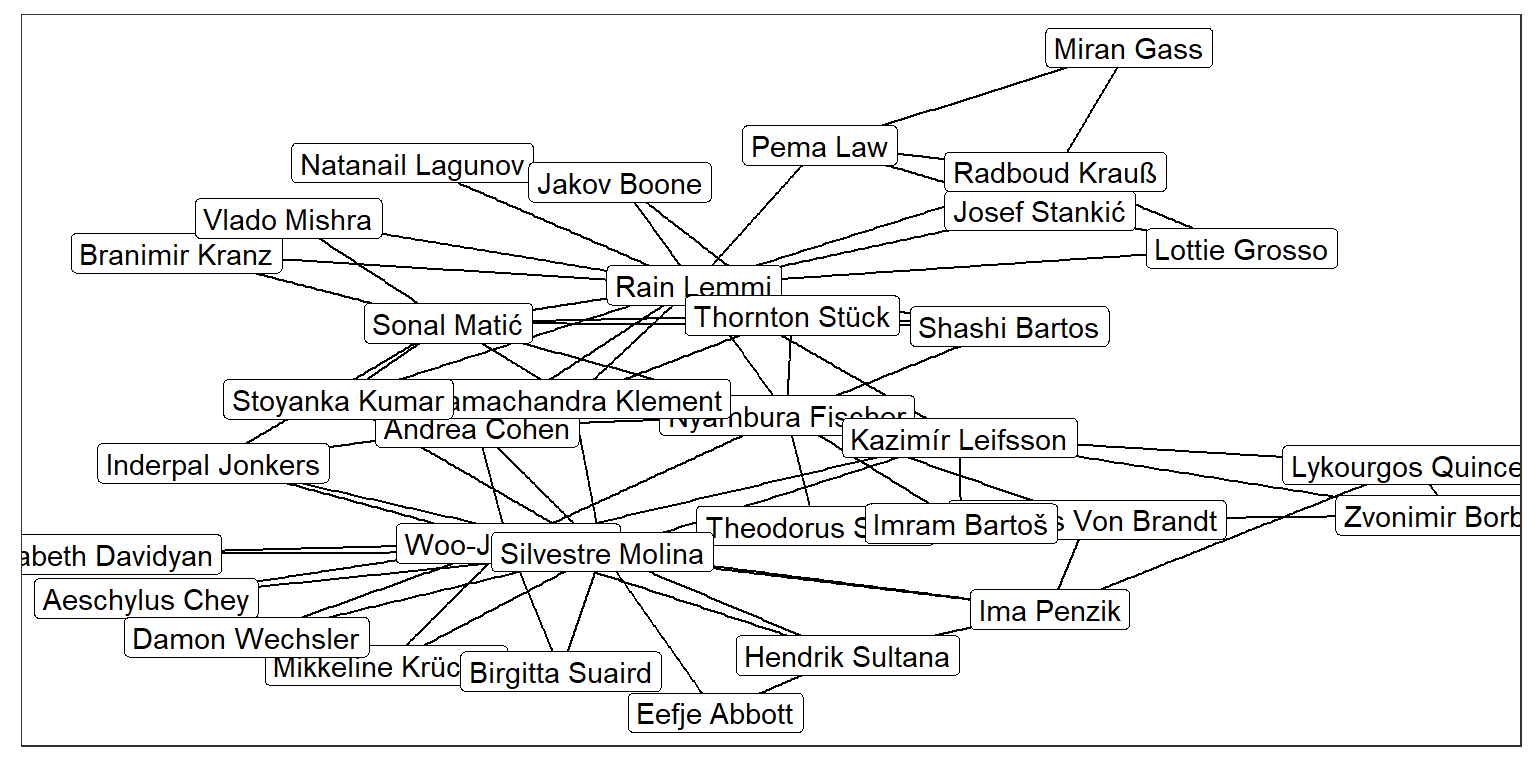
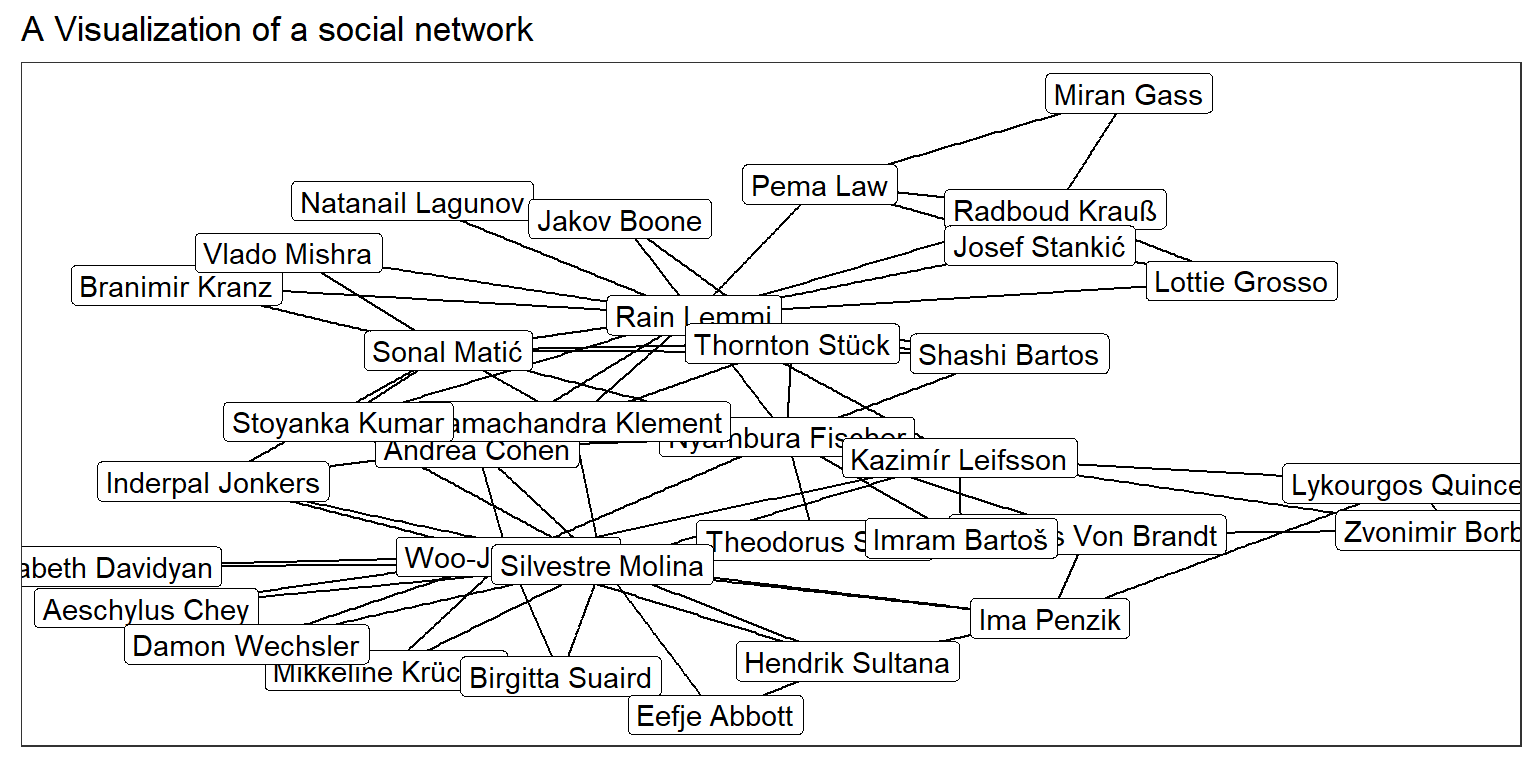
Added Golden color to top 4. fixes #15.

Changed region(s): [[0.0, 0.1562, 1.0, 0.9688], [0.6562, 0.0312, 0.7812, 0.1562], [0.0, 0.0, 0.3438, 0.0625]]

diff --git a/Report_2/README.html b/Report_2/README.html
@@ -136,7 +136,10 @@ pre > code.sourceCode > span > a:first-child::before { text-decoration: underlin
 <span id="cb1-16"><a href="#cb1-16" aria-hidden="true" tabindex="-1"></a></span>
 <span id="cb1-17"><a href="#cb1-17" aria-hidden="true" tabindex="-1"></a><span class="fu">ggraph</span>(twiddle_data, <span class="at">layout =</span> <span class="st">"igraph"</span>, <span class="at">algorithm =</span> <span class="st">"kk"</span>) <span class="sc">+</span></span>
 <span id="cb1-18"><a href="#cb1-18" aria-hidden="true" tabindex="-1"></a>  <span class="fu">geom_edge_link</span>() <span class="sc">+</span></span>
-<span id="cb1-19"><a href="#cb1-19" aria-hidden="true" tabindex="-1"></a>  <span class="fu">geom_node_label</span>(<span class="at">mapping =</span> <span class="fu">aes</span>(<span class="at">label =</span> name))</span></code><button title="Copy to Clipboard" class="code-copy-button"><i class="bi"></i></button></pre></div>
+<span id="cb1-19"><a href="#cb1-19" aria-hidden="true" tabindex="-1"></a>  <span class="fu">geom_node_label</span>(<span class="at">mapping =</span> <span class="fu">aes</span>(<span class="at">label =</span> name)) <span class="sc">+</span></span>
+<span id="cb1-20"><a href="#cb1-20" aria-hidden="true" tabindex="-1"></a>  <span class="fu">labs</span>(</span>
+<span id="cb1-21"><a href="#cb1-21" aria-hidden="true" tabindex="-1"></a>    <span class="at">title =</span> <span class="st">"A Visualization of a social network"</span></span>
+<span id="cb1-22"><a href="#cb1-22" aria-hidden="true" tabindex="-1"></a>  )</span></code><button title="Copy to Clipboard" class="code-copy-button"><i class="bi"></i></button></pre></div>
 <div class="cell-output-display">
 <p><img src="README_files/figure-html/unnamed-chunk-1-1.png" class="img-fluid" width="768"></p>
 </div>
@@ -162,6 +165,68 @@ pre > code.sourceCode > span > a:first-child::before { text-decoration: underlin
 <p><img src="README_files/figure-html/unnamed-chunk-2-1.png" class="img-fluid" width="768"></p>
 </div>
 </div>
+</section>
+<section id="task-3-highlighting-top-4-social-people-with-most-interactions." class="level2">
+<h2 class="anchored" data-anchor-id="task-3-highlighting-top-4-social-people-with-most-interactions.">Task 3: Highlighting top 4 social People with most interactions.</h2>
+<div class="cell">
+<div class="sourceCode cell-code" id="cb3"><pre class="sourceCode r code-with-copy"><code class="sourceCode r"><span id="cb3-1"><a href="#cb3-1" aria-hidden="true" tabindex="-1"></a><span class="fu">library</span>(stringr)</span>
+<span id="cb3-2"><a href="#cb3-2" aria-hidden="true" tabindex="-1"></a><span class="fu">library</span>(ggtext)</span></code><button title="Copy to Clipboard" class="code-copy-button"><i class="bi"></i></button></pre></div>
+<div class="cell-output cell-output-stderr">
+<pre><code>Warning: Paket 'ggtext' wurde unter R Version 4.3.3 erstellt</code></pre>
+</div>
+<div class="sourceCode cell-code" id="cb5"><pre class="sourceCode r code-with-copy"><code class="sourceCode r"><span id="cb5-1"><a href="#cb5-1" aria-hidden="true" tabindex="-1"></a><span class="co"># Generating two dfs having count of id for edges</span></span>
+<span id="cb5-2"><a href="#cb5-2" aria-hidden="true" tabindex="-1"></a>df_edges_count_to <span class="ot">&lt;-</span> df_edges <span class="sc">%&gt;%</span> </span>
+<span id="cb5-3"><a href="#cb5-3" aria-hidden="true" tabindex="-1"></a>  <span class="fu">count</span>(to) <span class="sc">%&gt;%</span> </span>
+<span id="cb5-4"><a href="#cb5-4" aria-hidden="true" tabindex="-1"></a>  <span class="fu">rename</span>(<span class="at">count_to =</span> n)</span>
+<span id="cb5-5"><a href="#cb5-5" aria-hidden="true" tabindex="-1"></a></span>
+<span id="cb5-6"><a href="#cb5-6" aria-hidden="true" tabindex="-1"></a>df_edges_count_from <span class="ot">&lt;-</span> df_edges <span class="sc">%&gt;%</span> </span>
+<span id="cb5-7"><a href="#cb5-7" aria-hidden="true" tabindex="-1"></a>  <span class="fu">count</span>(from) <span class="sc">%&gt;%</span> </span>
+<span id="cb5-8"><a href="#cb5-8" aria-hidden="true" tabindex="-1"></a>  <span class="fu">rename</span>(<span class="at">count_from =</span> n)</span>
+<span id="cb5-9"><a href="#cb5-9" aria-hidden="true" tabindex="-1"></a></span>
+<span id="cb5-10"><a href="#cb5-10" aria-hidden="true" tabindex="-1"></a>df_nodes_firstname_counts <span class="ot">&lt;-</span> df_nodes_firstname <span class="sc">%&gt;%</span> </span>
+<span id="cb5-11"><a href="#cb5-11" aria-hidden="true" tabindex="-1"></a>  <span class="fu">left_join</span>(df_edges_count_to, <span class="fu">join_by</span>(id <span class="sc">==</span> to)) <span class="sc">%&gt;%</span> </span>
+<span id="cb5-12"><a href="#cb5-12" aria-hidden="true" tabindex="-1"></a>  <span class="fu">left_join</span>(df_edges_count_from, <span class="fu">join_by</span>(id <span class="sc">==</span> from)) <span class="sc">%&gt;%</span> </span>
+<span id="cb5-13"><a href="#cb5-13" aria-hidden="true" tabindex="-1"></a>  <span class="fu">rowwise</span>() <span class="sc">%&gt;%</span> </span>
+<span id="cb5-14"><a href="#cb5-14" aria-hidden="true" tabindex="-1"></a>  <span class="fu">mutate</span>(<span class="at">count_sum =</span> <span class="fu">sum</span>(count_to, count_from, <span class="at">na.rm =</span> <span class="cn">TRUE</span>)) <span class="sc">%&gt;%</span> </span>
+<span id="cb5-15"><a href="#cb5-15" aria-hidden="true" tabindex="-1"></a>  <span class="fu">arrange</span>(<span class="fu">desc</span>(count_sum)) <span class="sc">%&gt;%</span> </span>
+<span id="cb5-16"><a href="#cb5-16" aria-hidden="true" tabindex="-1"></a>  <span class="fu">group_by</span>(<span class="dv">99</span>) <span class="sc">%&gt;%</span> </span>
+<span id="cb5-17"><a href="#cb5-17" aria-hidden="true" tabindex="-1"></a>  <span class="fu">mutate</span>(</span>
+<span id="cb5-18"><a href="#cb5-18" aria-hidden="true" tabindex="-1"></a>    <span class="at">rn =</span> <span class="fu">row_number</span>(),</span>
+<span id="cb5-19"><a href="#cb5-19" aria-hidden="true" tabindex="-1"></a>    <span class="at">top_4 =</span> <span class="fu">ifelse</span>(<span class="fu">between</span>(rn,<span class="dv">1</span>,<span class="dv">4</span>), <span class="cn">TRUE</span>, <span class="cn">FALSE</span>)</span>
+<span id="cb5-20"><a href="#cb5-20" aria-hidden="true" tabindex="-1"></a>  ) <span class="sc">%&gt;%</span> </span>
+<span id="cb5-21"><a href="#cb5-21" aria-hidden="true" tabindex="-1"></a>  <span class="fu">ungroup</span>()</span>
+<span id="cb5-22"><a href="#cb5-22" aria-hidden="true" tabindex="-1"></a></span>
+<span id="cb5-23"><a href="#cb5-23" aria-hidden="true" tabindex="-1"></a><span class="co"># to display in text below the 4 most social individuals</span></span>
+<span id="cb5-24"><a href="#cb5-24" aria-hidden="true" tabindex="-1"></a>top_4_string <span class="ot">&lt;-</span> df_nodes_firstname_counts <span class="sc">%&gt;%</span> </span>
+<span id="cb5-25"><a href="#cb5-25" aria-hidden="true" tabindex="-1"></a>  <span class="fu">filter</span>(top_4) <span class="sc">%&gt;%</span> </span>
+<span id="cb5-26"><a href="#cb5-26" aria-hidden="true" tabindex="-1"></a>  <span class="fu">mutate</span>(<span class="at">name_num =</span> <span class="fu">paste0</span>(name, <span class="st">" ("</span>, count_sum, <span class="st">"), "</span>)) <span class="sc">%&gt;%</span> </span>
+<span id="cb5-27"><a href="#cb5-27" aria-hidden="true" tabindex="-1"></a>  <span class="fu">group_by</span>(<span class="dv">99</span>) <span class="sc">%&gt;%</span> </span>
+<span id="cb5-28"><a href="#cb5-28" aria-hidden="true" tabindex="-1"></a>  <span class="fu">summarize</span>(<span class="at">string =</span> <span class="fu">paste0</span>(name_num, <span class="at">collapse =</span> <span class="st">""</span>)) <span class="sc">%&gt;%</span> </span>
+<span id="cb5-29"><a href="#cb5-29" aria-hidden="true" tabindex="-1"></a>  <span class="fu">pull</span>(string)</span>
+<span id="cb5-30"><a href="#cb5-30" aria-hidden="true" tabindex="-1"></a></span>
+<span id="cb5-31"><a href="#cb5-31" aria-hidden="true" tabindex="-1"></a>twiddle_data_firstname_counts <span class="ot">&lt;-</span> <span class="fu">tbl_graph</span>(</span>
+<span id="cb5-32"><a href="#cb5-32" aria-hidden="true" tabindex="-1"></a>    <span class="at">nodes =</span> df_nodes_firstname_counts,</span>
+<span id="cb5-33"><a href="#cb5-33" aria-hidden="true" tabindex="-1"></a>    <span class="at">edges =</span> df_edges</span>
+<span id="cb5-34"><a href="#cb5-34" aria-hidden="true" tabindex="-1"></a>  )</span>
+<span id="cb5-35"><a href="#cb5-35" aria-hidden="true" tabindex="-1"></a></span>
+<span id="cb5-36"><a href="#cb5-36" aria-hidden="true" tabindex="-1"></a><span class="fu">ggraph</span>(twiddle_data_firstname_counts, <span class="at">layout =</span> <span class="st">"igraph"</span>, <span class="at">algorithm =</span> <span class="st">"kk"</span>) <span class="sc">+</span></span>
+<span id="cb5-37"><a href="#cb5-37" aria-hidden="true" tabindex="-1"></a>  <span class="fu">geom_edge_link</span>() <span class="sc">+</span></span>
+<span id="cb5-38"><a href="#cb5-38" aria-hidden="true" tabindex="-1"></a>  <span class="fu">geom_node_label</span>(<span class="at">mapping =</span> <span class="fu">aes</span>(<span class="at">label =</span> firstname, <span class="at">fill =</span> top_4)) <span class="sc">+</span></span>
+<span id="cb5-39"><a href="#cb5-39" aria-hidden="true" tabindex="-1"></a>  <span class="fu">labs</span>(</span>
+<span id="cb5-40"><a href="#cb5-40" aria-hidden="true" tabindex="-1"></a>      <span class="at">title =</span> <span class="st">"Highlighting the &lt;span style='color:gold'&gt;top 4&lt;/span&gt; most social individuals"</span></span>
+<span id="cb5-41"><a href="#cb5-41" aria-hidden="true" tabindex="-1"></a>    ) <span class="sc">+</span></span>
+<span id="cb5-42"><a href="#cb5-42" aria-hidden="true" tabindex="-1"></a>  <span class="fu">scale_fill_manual</span>(</span>
+<span id="cb5-43"><a href="#cb5-43" aria-hidden="true" tabindex="-1"></a>    <span class="at">values =</span> <span class="fu">c</span>(<span class="st">"TRUE"</span> <span class="ot">=</span> <span class="st">"gold"</span>, <span class="st">"FALSE"</span> <span class="ot">=</span> <span class="st">"white"</span>)</span>
+<span id="cb5-44"><a href="#cb5-44" aria-hidden="true" tabindex="-1"></a>  ) <span class="sc">+</span></span>
+<span id="cb5-45"><a href="#cb5-45" aria-hidden="true" tabindex="-1"></a>  <span class="fu">theme</span>(</span>
+<span id="cb5-46"><a href="#cb5-46" aria-hidden="true" tabindex="-1"></a>    <span class="at">plot.title =</span> <span class="fu">element_markdown</span>(),</span>
+<span id="cb5-47"><a href="#cb5-47" aria-hidden="true" tabindex="-1"></a>    <span class="at">legend.position =</span> <span class="st">"none"</span></span>
+<span id="cb5-48"><a href="#cb5-48" aria-hidden="true" tabindex="-1"></a>  )</span></code><button title="Copy to Clipboard" class="code-copy-button"><i class="bi"></i></button></pre></div>
+<div class="cell-output-display">
+<p><img src="README_files/figure-html/unnamed-chunk-3-1.png" class="img-fluid" width="768"></p>
+</div>
+</div>
+<p>The 4 most social People are Silvestre Molina (17), Rain Lemmi (16), Woo-Jin Tosetti (12), Nyambura Fischer (10), with the number of interactions in brackets.</p>
 </section>
 </section>
 
